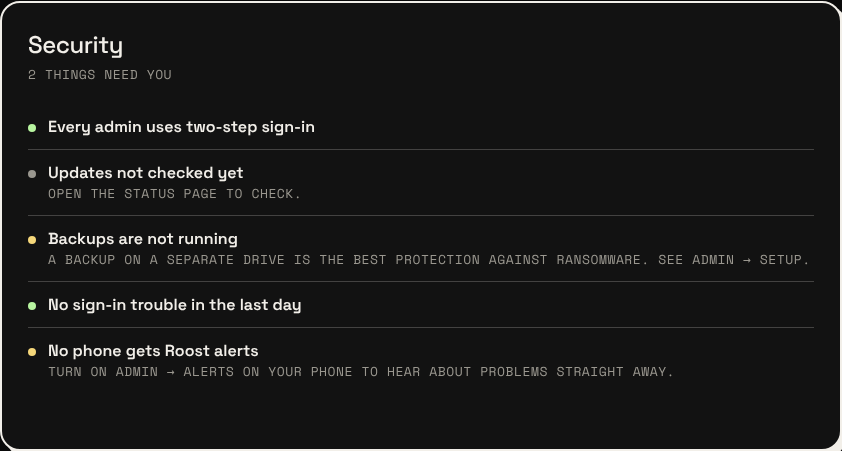
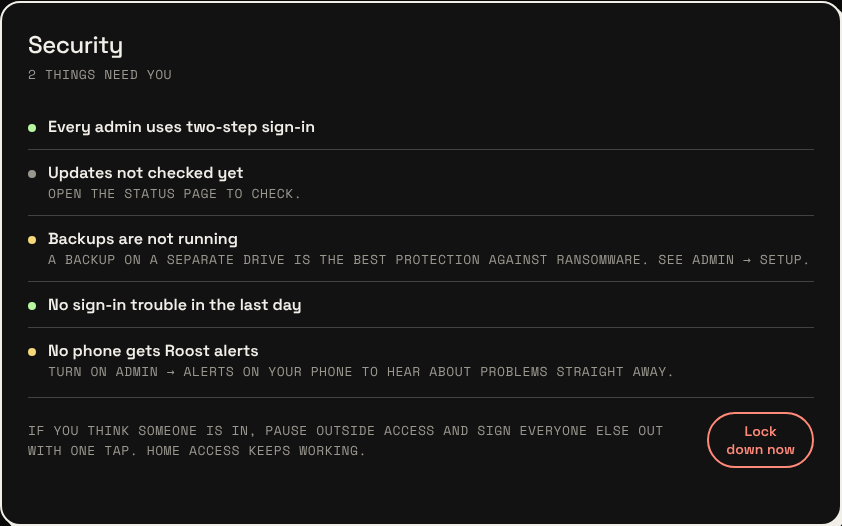
Add lockdown button: pause outside access and sign everyone out
HTTPS is the only way in from outside, so lockdown answers 503 on it while
the plain home address keeps working. The account guard now only exempts
home addresses on plain HTTP.

Claude-Session: https://claude.ai/code/session_01Y6r9F22fxb2TBBDNRdUpbU

diff --git a/src/server.js b/src/server.js
@@ -1018,7 +1018,7 @@ function createServer({ dataDir, nestDir, backupDir = '', secureCookies = false,
       if (!limiter.allow(clientIp(req, trustProxy))) throw new HttpError(429, 'Too many attempts, wait a few minutes');
       const body = await readJson(req);
       const username = str(body.username, 32).toLowerCase();
-      if (!guard.allow(username, clientIp(req, trustProxy))) throw new HttpError(429, 'Too many wrong passwords for this account. Wait a few minutes, or sign in from home.');
+      if (!guard.allow(username, clientIp(req, trustProxy), Boolean(req.socket.encrypted))) throw new HttpError(429, 'Too many wrong passwords for this account. Wait a few minutes, or sign in from home.');
       const user = db().users.find((u) => u.username === username);
       if (!user || typeof body.password !== 'string' || !verifyPassword(body.password, user.password)) {
         limiter.fail(clientIp(req, trustProxy));
@@ -1053,7 +1053,7 @@ function createServer({ dataDir, nestDir, backupDir = '', secureCookies = false,
         pendingCodes.delete(body.ticket);
         throw new HttpError(401, 'Sign in again');
       }
-      if (!guard.allow(user.username, clientIp(req, trustProxy))) throw new HttpError(429, 'Too many wrong codes for this account. Wait a few minutes, or sign in from home.');
+      if (!guard.allow(user.username, clientIp(req, trustProxy), Boolean(req.socket.encrypted))) throw new HttpError(429, 'Too many wrong codes for this account. Wait a few minutes, or sign in from home.');
       const code = str(body.code, 40);
       let ok = false;
       if (/^\d{6}$/.test(code.replace(/\s/g, ''))) {
@@ -2269,9 +2269,34 @@ function createServer({ dataDir, nestDir, backupDir = '', secureCookies = false,
           backup: backup.summarize(backup.readStatus(dataDir)),
           pushDevices: db().users.filter((u) => u.role === 'admin').reduce((n, u) => n + push.devicesOf(u.id).length, 0),
           outside: Boolean(cert),
+          lockdown: db().settings.lockdown || null,
         }),
+        lockdown: db().settings.lockdown || null,
         checkedAt: new Date().toISOString(),
       });
+    },
+
+    // One tap to shut the door: outside access pauses, every sign-in ends (except
+    // this one) and two-step "trusted device" cookies stop counting. Lifting it
+    // brings outside access back; people sign in again.
+    'POST /api/admin/lockdown': async (req, res) => {
+      const admin = requireAdmin(req);
+      const body = await readJson(req);
+      const on = body.on === true;
+      if (on === Boolean(db().settings.lockdown)) return send(res, 200, { lockdown: db().settings.lockdown || null });
+      if (on) {
+        db().settings.lockdown = { at: new Date().toISOString(), by: admin.username };
+        for (const u of db().users) {
+          u.trusted = [];
+          sessions.destroyUser(u.id, u.id === admin.id ? tokenOf(req) : null);
+        }
+        secWatch.raise('sec:lockdown', 'Lockdown is on', `${admin.username} paused outside access and signed everyone out.`);
+      } else {
+        delete db().settings.lockdown;
+      }
+      store.save();
+      record(req, on ? 'lockdown-on' : 'lockdown-off', { actor: admin.username });
+      send(res, 200, { lockdown: db().settings.lockdown || null });
     },
 
     'POST /api/alerts/:id/dismiss': (req, res, id) => {
@@ -2855,6 +2880,13 @@ function createServer({ dataDir, nestDir, backupDir = '', secureCookies = false,
     return remote.blocks(req);
   }
 
+  // Lockdown pauses everything that comes in from outside. The router forwards
+  // 443 only, so outside traffic is exactly what arrives over HTTPS; the plain
+  // home address keeps working so the admin can always get back in and lift it.
+  function lockedOut(req) {
+    return Boolean(db().settings.lockdown && req.socket.encrypted);
+  }
+
   // Which app a request counts against on the upload meter.
   function trafficApp(pathname) {
     if (pathname === JELLYFIN_PREFIX || pathname.startsWith(`${JELLYFIN_PREFIX}/`)) return 'jellyfin';
@@ -2866,6 +2898,10 @@ function createServer({ dataDir, nestDir, backupDir = '', secureCookies = false,
     if (screen(req)) {
       res.writeHead(403, { 'Content-Type': 'text/plain; charset=utf-8' });
       return res.end('Use the Roost address, not the IP');
+    }
+    if (lockedOut(req)) {
+      res.writeHead(503, { 'Content-Type': 'text/plain; charset=utf-8', 'Retry-After': '3600' });
+      return res.end('Roost is locked down for now.');
     }
     res.setHeader('X-Content-Type-Options', 'nosniff');
     res.setHeader('Referrer-Policy', 'same-origin');
@@ -2921,7 +2957,7 @@ function createServer({ dataDir, nestDir, backupDir = '', secureCookies = false,
   // Live updates from Jellyfin (a WebSocket) pass through on both the HTTP and
   // HTTPS side.
   function onUpgrade(req, socket, head) {
-    if (screen(req)) return socket.destroy();
+    if (screen(req) || lockedOut(req)) return socket.destroy();
     const { pathname } = new URL(req.url, 'http://roost');
     if (pathname.startsWith(`${JELLYFIN_PREFIX}/`) && jellyfinAllowed(req)) return jellyfin.proxyUpgrade(req, socket, head);
     socket.destroy();

diff --git a/test/security.test.js b/test/security.test.js
@@ -21,6 +21,8 @@ test('the account guard pauses an account from outside, never from home', () => 
   assert.equal(guard.allow('raven', '87.114.78.169'), false);
   assert.equal(guard.allow('raven', '192.168.4.20'), true);
   assert.equal(guard.allow('dana', '87.114.78.169'), true);
+  // Over HTTPS (the only way in from outside) a home-looking address may just be the router.
+  assert.equal(guard.allow('raven', '192.168.4.20', true), false);
   t += 1500;
   assert.equal(guard.allow('raven', '87.114.78.169'), true);
   guard.fail('raven');
@@ -168,4 +170,35 @@ test('guessing one account from outside gets it paused, and raises an alert', as
   const alerts = (await call('GET', '/api/alerts', null, cookie)).body;
   assert.ok(alerts.active.some((a) => a.security && /failed sign-ins for raven/.test(a.title)));
   assert.equal(alerts.settings.alertSecurity, true);
+});
+
+test('lockdown signs others out, blocks outside (HTTPS) traffic, and lifts at home', async () => {
+  const { execFileSync } = require('child_process');
+  const https = require('https');
+  const tls = require('tls');
+  const dana = (await call('POST', '/api/admin/users', { username: 'dana', password: 'another horse', role: 'member' }, cookie));
+  assert.equal(dana.status, 201);
+  const danaCookie = (await call('POST', '/api/login', { username: 'dana', password: 'another horse' })).cookie;
+  assert.equal((await call('GET', '/api/state', null, danaCookie)).body.user.username, 'dana');
+
+  assert.equal((await call('POST', '/api/admin/lockdown', { on: true }, cookie)).status, 200);
+  assert.equal((await call('GET', '/api/state', null, danaCookie)).body.user, null);
+  assert.equal((await call('GET', '/api/state', null, cookie)).body.user.username, 'raven');
+  const view = (await call('GET', '/api/admin/security', null, cookie)).body;
+  assert.ok(view.lockdown && view.checks.some((c) => c.id === 'lockdown'));
+  assert.ok((await call('GET', '/api/alerts', null, cookie)).body.active.some((a) => a.key === 'sec:lockdown'));
+
+  // The HTTPS side (where outside traffic arrives) answers 503 until it is lifted.
+  const key = path.join(dataDir, 'k.pem');
+  const crt = path.join(dataDir, 'c.pem');
+  execFileSync('openssl', ['req', '-x509', '-newkey', 'rsa:2048', '-nodes', '-keyout', key, '-out', crt, '-subj', '/CN=localhost', '-days', '1'], { stdio: 'ignore' });
+  server.certs.context = tls.createSecureContext({ key: fs.readFileSync(key), cert: fs.readFileSync(crt) });
+  const secure = server.createHttpsServer();
+  await new Promise((r) => secure.listen(0, '127.0.0.1', r));
+  const get = () => new Promise((resolve, reject) => https.get({ host: '127.0.0.1', port: secure.address().port, path: '/api/alerts', rejectUnauthorized: false, agent: false, servername: 'localhost' }, (res) => { res.resume(); resolve(res.statusCode); }).on('error', reject));
+  assert.equal(await get(), 503);
+  assert.equal((await call('POST', '/api/admin/lockdown', { on: false }, cookie)).status, 200);
+  assert.equal(await get(), 401);
+  secure.closeAllConnections();
+  secure.close();
 });

diff --git a/src/security.js b/src/security.js
@@ -19,7 +19,8 @@ function isPrivateIp(ip) {
 
 // Slows password guessing that is spread over many addresses, which the per-address
 // limiter can't see. Too many failures on one account pause sign-in to it from
-// outside the home network; at home it never locks, so the owner can't be shut out.
+// outside the home network; on the home network's plain address it never locks,
+// so the owner can't be shut out.
 class AccountGuard {
   constructor({ max = 8, windowMs = 10 * 60 * 1000, now = Date.now } = {}) {
     this.max = max;
@@ -36,8 +37,11 @@ class AccountGuard {
     return list;
   }
 
-  allow(name, ip) {
-    return isPrivateIp(ip) || this.recent(name).length < this.max;
+  // `encrypted`: the request came in over HTTPS, which is the only way in from
+  // outside (the router forwards 443 only). A home address on plain HTTP is the
+  // one safe exemption; over HTTPS a home-looking address may just be a router.
+  allow(name, ip, encrypted = false) {
+    return (!encrypted && isPrivateIp(ip)) || this.recent(name).length < this.max;
   }
 
   fail(name) {
@@ -157,11 +161,14 @@ const order = { ok: 0, info: 0, warn: 1, bad: 2 };
 // title, detail }; `info` is a fact with nothing to do about it.
 //   db, now, entries (activity log), cert (certSummary() or null), updates
 //   ({ update, restart, checked } or null), backup (backup.summarize()),
-//   pushDevices (phones with alerts on, for admins), outside (reachable from outside)
-function securityChecks({ db, now = Date.now(), entries = [], cert = null, updates = null, backup = { state: 'off' }, pushDevices = 0, outside = false }) {
+//   pushDevices (phones with alerts on, for admins), outside (reachable from outside),
+//   lockdown ({ at, by } while outside access is paused)
+function securityChecks({ db, now = Date.now(), entries = [], cert = null, updates = null, backup = { state: 'off' }, pushDevices = 0, outside = false, lockdown = null }) {
   const checks = [];
   const add = (id, status, title, detail = '') => checks.push({ id, status, title, detail });
   const plural = (n, one, many) => `${n} ${n === 1 ? one : many}`;
+
+  if (lockdown) add('lockdown', 'warn', 'Outside access is paused (lockdown)', 'Everyone is signed out and Roost only answers at home. Lift it below when you are ready.');
 
   const admins = db.users.filter((u) => u.role === 'admin');
   const bare = admins.filter((u) => !u.twoStep);

diff --git a/public/app.js b/public/app.js
@@ -2777,12 +2777,34 @@ async function loadSecurity() {
   try {
     const data = await api('GET', '/api/admin/security');
     $('#security-headline').textContent = data.headline;
+    renderLockdown(data.lockdown);
     $('#security-list').replaceChildren(...data.checks.map((c) => el('li', { class: 'security-row' },
       el('span', { class: `dot ${c.status === 'ok' ? 'online' : c.status === 'warn' ? 'warn' : c.status === 'bad' ? 'offline' : ''}` }),
       el('div', {}, el('div', { class: 'security-what', text: c.title }), c.detail ? el('div', { class: 'mono muted', text: c.detail }) : ''))));
     $('#security-panel > .msg').textContent = '';
   } catch (err) { flash($('#security-panel'), err.message, false); }
 }
+
+function renderLockdown(lock) {
+  const row = $('#lockdown-row');
+  $('#lockdown-text').textContent = lock
+    ? `Locked down since ${clock(lock.at)} by ${lock.by}. Outside access is paused and everyone else is signed out.`
+    : 'If you think someone is in, pause outside access and sign everyone else out with one tap. Home access keeps working.';
+  const btn = $('#lockdown-btn');
+  btn.textContent = lock ? 'Lift lockdown' : 'Lock down now';
+  btn.className = `btn small${lock ? '' : ' danger'}`;
+  btn.dataset.on = lock ? '' : '1';
+  row.classList.toggle('on', Boolean(lock));
+}
+
+$('#lockdown-btn').addEventListener('click', async (e) => {
+  const turnOn = e.currentTarget.dataset.on === '1';
+  if (turnOn && !confirm('Lock Roost down? Outside access pauses and everyone else is signed out. You can lift it here at any time, from the home address.')) return;
+  try {
+    await api('POST', '/api/admin/lockdown', { on: turnOn });
+    loadSecurity();
+  } catch (err) { flash($('#security-panel'), err.message, false); }
+});
 
 // ---------- activity log ----------
 
@@ -2791,6 +2813,8 @@ const ACTIVITY_LABELS = {
   'sign-out': 'Signed out',
   setup: 'Set up Roost',
   'sign-in-failed': 'Failed sign-in',
+  'lockdown-on': 'Locked down outside access',
+  'lockdown-off': 'Lifted lockdown',
   'password-changed': 'Changed password',
   'user-added': 'Added user',
   'user-changed': 'Changed user',

diff --git a/public/style.css b/public/style.css
@@ -1681,3 +1681,6 @@ a.app-card:active { transform: translate(5px, 5px); box-shadow: 0 0 0 var(--shad
 .security-row:first-child { border-top: 0; }
 .security-row .dot { flex: none; }
 .security-what { font-weight: 600; }
+.lockdown-row { display: flex; gap: 16px; align-items: center; justify-content: space-between; border-top: 1px solid var(--line); padding-top: 14px; margin-top: 4px; }
+.lockdown-row.on { color: var(--ink); }
+@media (max-width: 600px) { .lockdown-row { flex-direction: column; align-items: stretch; } }

diff --git a/public/index.html b/public/index.html
@@ -580,6 +580,10 @@
       <div class="card panel" id="security-panel">
         <h3>Security</h3><span class="mono muted" id="security-headline">Checking…</span>
         <ul class="security-list" id="security-list"></ul>
+        <div class="lockdown-row" id="lockdown-row">
+          <span class="mono muted" id="lockdown-text"></span>
+          <button class="btn small danger" type="button" id="lockdown-btn">Lock down now</button>
+        </div>
         <div class="msg" role="status"></div>
       </div>
 

diff --git a/src/setup.js b/src/setup.js
@@ -529,6 +529,7 @@ const NO_STEP = {
   alertDisks: 'on by default, switched under Admin → Alerts',
   alertDiskPct: 'starts at 90%, changed under Admin → Alerts',
   alertSecurity: 'on by default, switched under Admin → Alerts',
+  lockdown: 'a panic button in Admin → Security, off until pressed',
   PORT: 'fixed by the compose file',
   DATA_DIR: 'fixed by the compose file',
   ROOST_CONTAINER: 'only if the Roost container is renamed',

diff --git a/src/activity.js b/src/activity.js
@@ -38,6 +38,8 @@ const KINDS = {
   'settings-changed': 'settings',
   'share-created': 'storage',
   'share-removed': 'storage',
+  'lockdown-on': 'settings',
+  'lockdown-off': 'settings',
   'notice-posted': 'settings',
   'notice-cleared': 'settings',
 };
